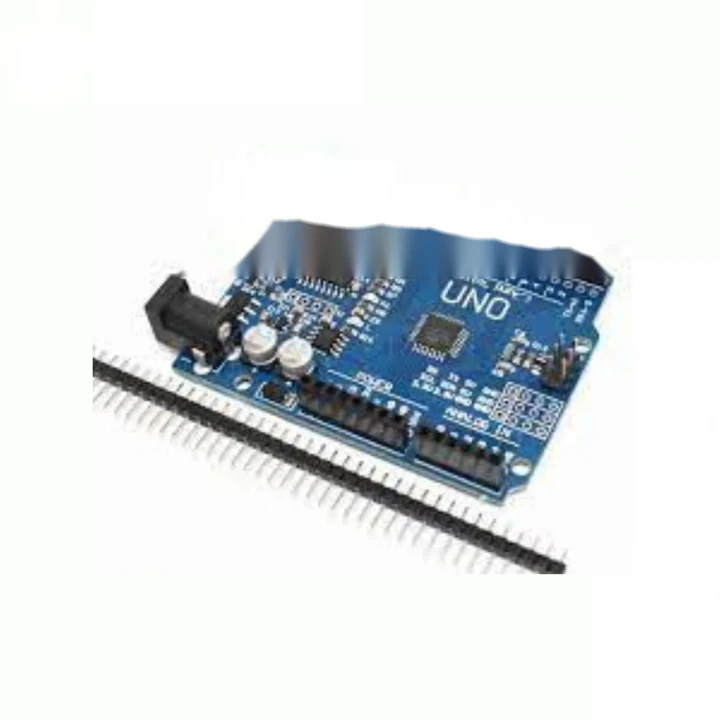
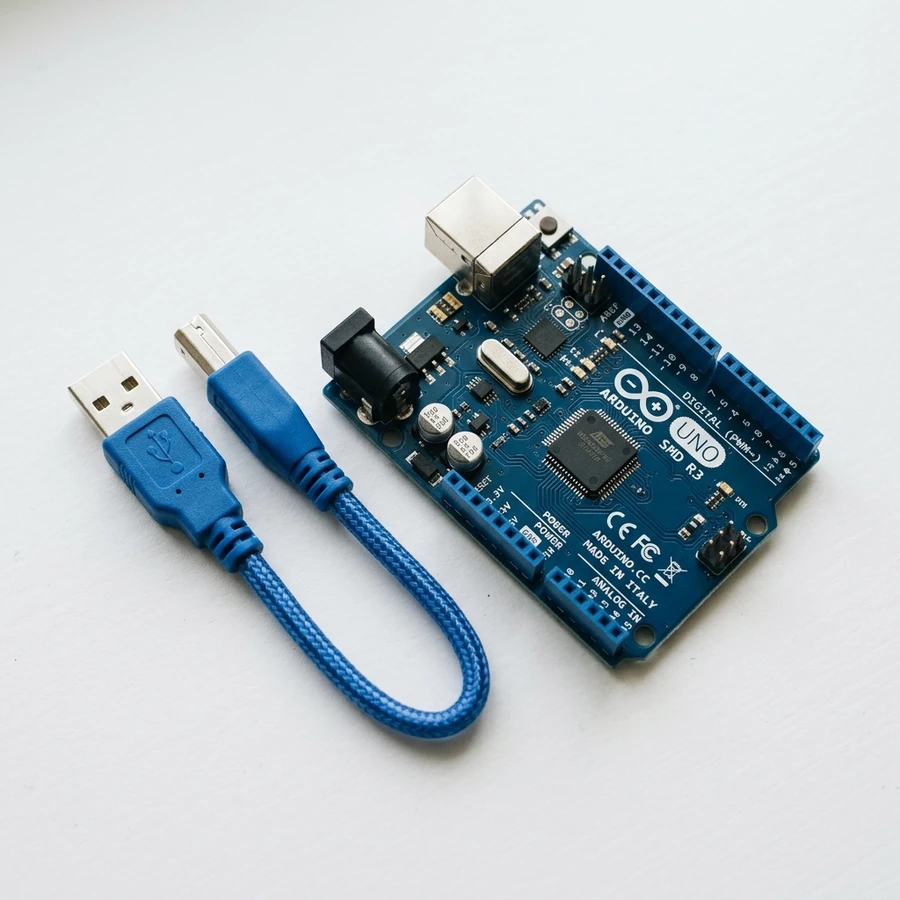
feat: universal search bar and photorealistic studio image replacements across catalog and categories

diff --git a/components/Header.tsx b/components/Header.tsx
@@ -132,31 +132,18 @@ export default function Header({
             </div>
           </Link>
 
-          {/* Search bar with category selector */}
+          {/* Universal Website Search Bar */}
           <div className="hidden md:flex flex-1 max-w-2xl mx-4">
             <div className="relative flex w-full border-2 border-slate-200 focus-within:border-[#0084FF] rounded-xl overflow-hidden transition-all bg-white shadow-inner">
-              {/* Category dropdown inside search */}
-              <select
-                value={selectedCategory}
-                onChange={(e) => onCategorySelect(e.target.value)}
-                aria-label="Filter by product category"
-                className="bg-slate-50 border-r border-slate-200 text-xs font-semibold text-slate-700 px-3 py-2.5 outline-none cursor-pointer hover:bg-slate-100 transition-colors"
-              >
-                {CATEGORIES.map((cat) => (
-                  <option key={cat.id} value={cat.id}>
-                    {cat.name}
-                  </option>
-                ))}
-              </select>
-
-              {/* Text Input */}
-              <div className="relative flex-1 flex items-center">
+              {/* Text Input with Leading Search Icon */}
+              <div className="relative flex-1 flex items-center pl-3.5">
+                <Search className="w-4 h-4 text-slate-400 shrink-0 mr-2" />
                 <input
                   type="text"
                   value={searchQuery}
                   onChange={(e) => onSearchChange(e.target.value)}
-                  placeholder="Search Arduino, Raspberry Pi, ESP32, sensors, ICs, spot welders..."
-                  className="w-full px-3.5 py-2.5 text-sm text-slate-800 placeholder:text-slate-400 outline-none"
+                  placeholder="Search overall store: Arduino, Raspberry Pi, ESP32, sensors, motors, ICs..."
+                  className="w-full py-2.5 pr-2 text-sm text-slate-800 placeholder:text-slate-400 outline-none"
                 />
                 {searchQuery && (
                   <button

diff --git a/components/ProductGrid.tsx b/components/ProductGrid.tsx
@@ -35,8 +35,8 @@ export default function ProductGrid({
   const filteredProducts = useMemo(() => {
     let list = [...products];
 
-    // Filter by Category
-    if (selectedCategory !== 'all') {
+    // Filter by Category (searchQuery searches overall catalog)
+    if (selectedCategory !== 'all' && !searchQuery.trim()) {
       const catConfig = CATEGORIES.find((c) => c.id === selectedCategory);
       if (catConfig?.query) {
         list = list.filter((p) => {

diff --git a/app/page.tsx b/app/page.tsx
@@ -40,6 +40,9 @@ export default function HomePage() {
 
   const handleSearchChange = (query: string) => {
     setSearchQuery(query);
+    if (query.trim() && selectedCategory !== 'all') {
+      setSelectedCategory('all');
+    }
   };
 
   const handleClearSearch = () => {
